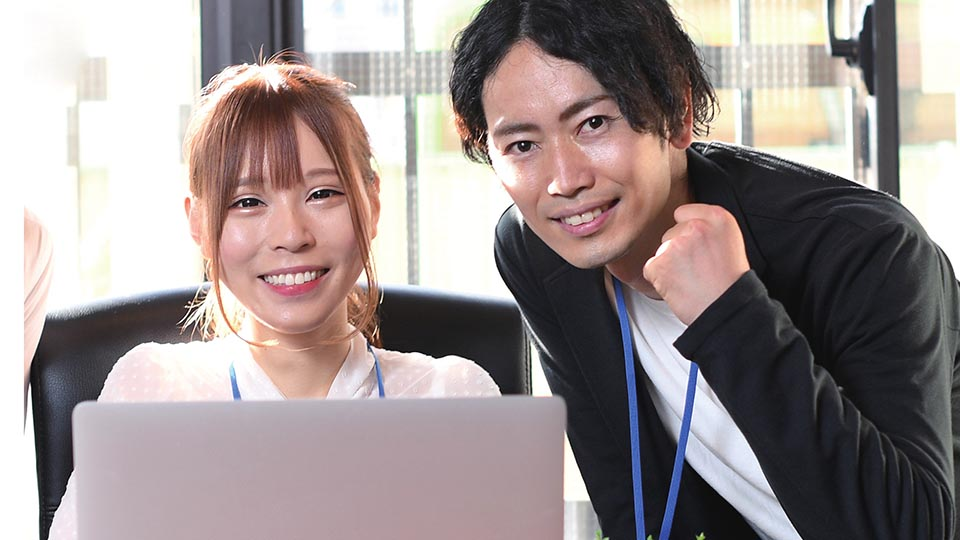
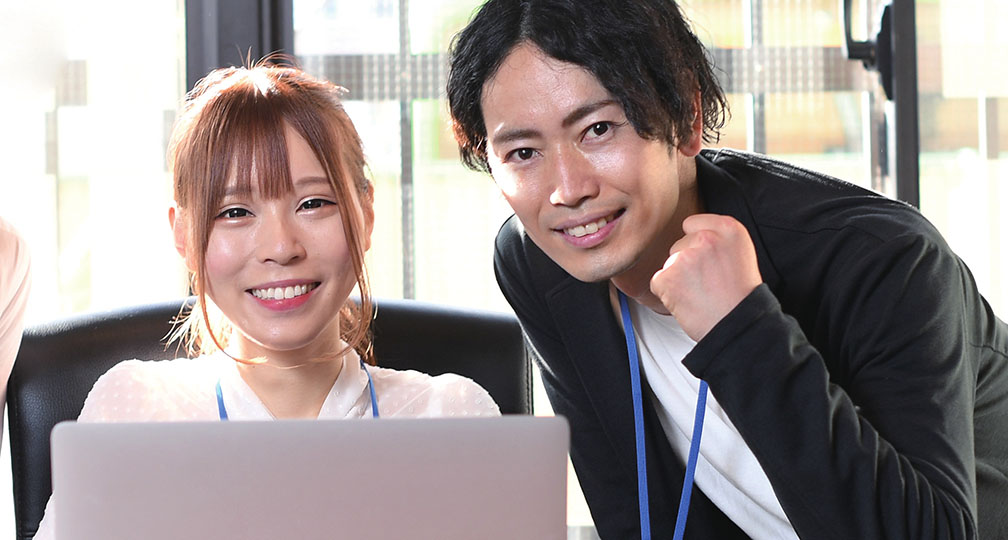
28th Nov. 2022, 22:00, done.

diff --git a/styles/960px/layout960.css b/styles/960px/layout960.css
@@ -16,6 +16,9 @@
 /*
   header ==============================================
 */
+.header-outer-container{
+padding: 9px;
+}
 /* タイトル文字 */
 .header-title {
   padding-top: 9px;
@@ -33,7 +36,6 @@
 */
 /* 下端にpadding 9px */
 .nav-container {
-  padding-bottom: 9px;
 }
 /* nav ul */
 .nav-container__list {
@@ -72,7 +74,7 @@
   max-width: 960px;
   min-width: 300px;
 }
-/* 固定値 */
+/* アニメ部分、固定値 */
 .main-visual__anime {
   background-position: 50% 50%;
   background-size: 960px;
@@ -80,20 +82,23 @@
   animation: image_anime 20s ease infinite;
   -webkit-animation: image_anime 20s ease infinite;
 }
-/* 可変値 */
+/* アニメ部分、可変値 */
 .main-visual__anime {
   width:100%;
-  height: 540px;
+  height: 520px;
 }
 @keyframes image_anime {
   0% {
     background-image: url(../../images/header/header01.jpg);
+    background-position: 45% 50%;
   }
   50% {
     background-image: url(../../images/header/header02.jpg);
+    background-position: 55% 50%;
   }
   100% {
     background-image: url(../../images/header/header01.jpg);
+    background-position: 45% 50%;
   }
 }
 

diff --git a/styles/768px/layout768.css b/styles/768px/layout768.css
@@ -2,7 +2,7 @@
   /* メインビジュアル */
   .main-visual__anime {
     width:100%;
-    height: 432px;
+    height: 420px;
     background-size: 768px;
   }
 }
